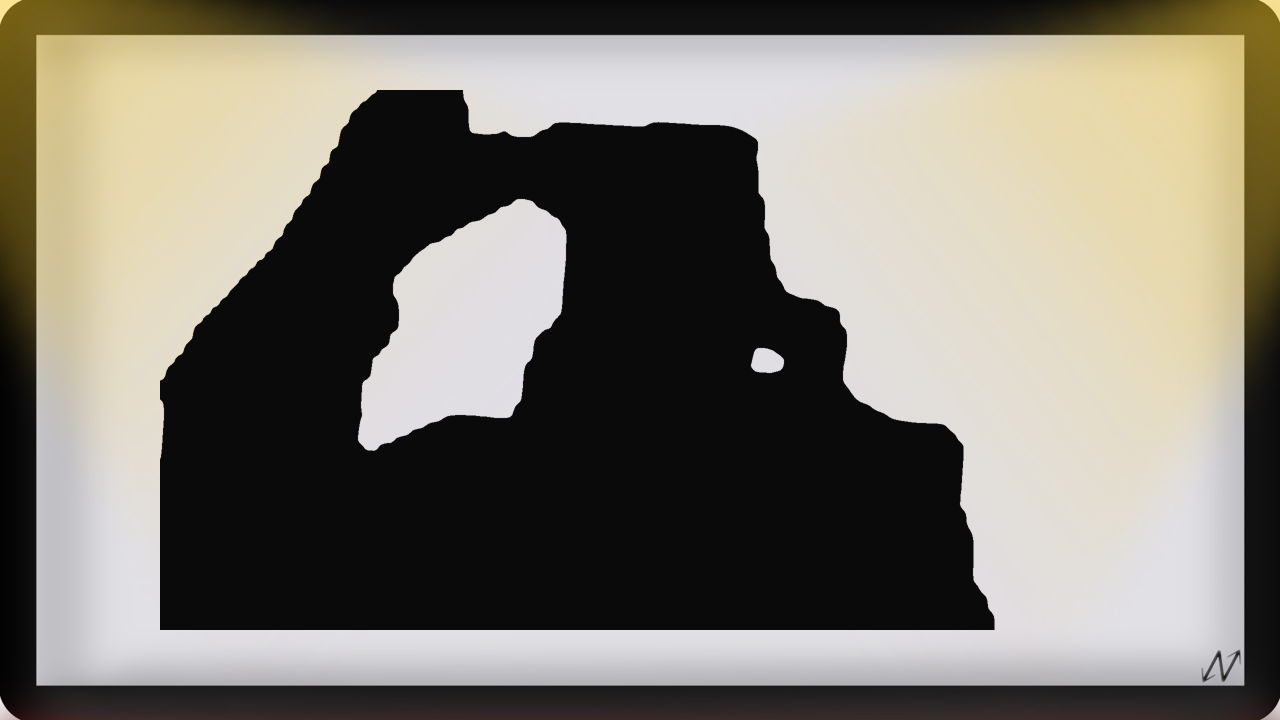
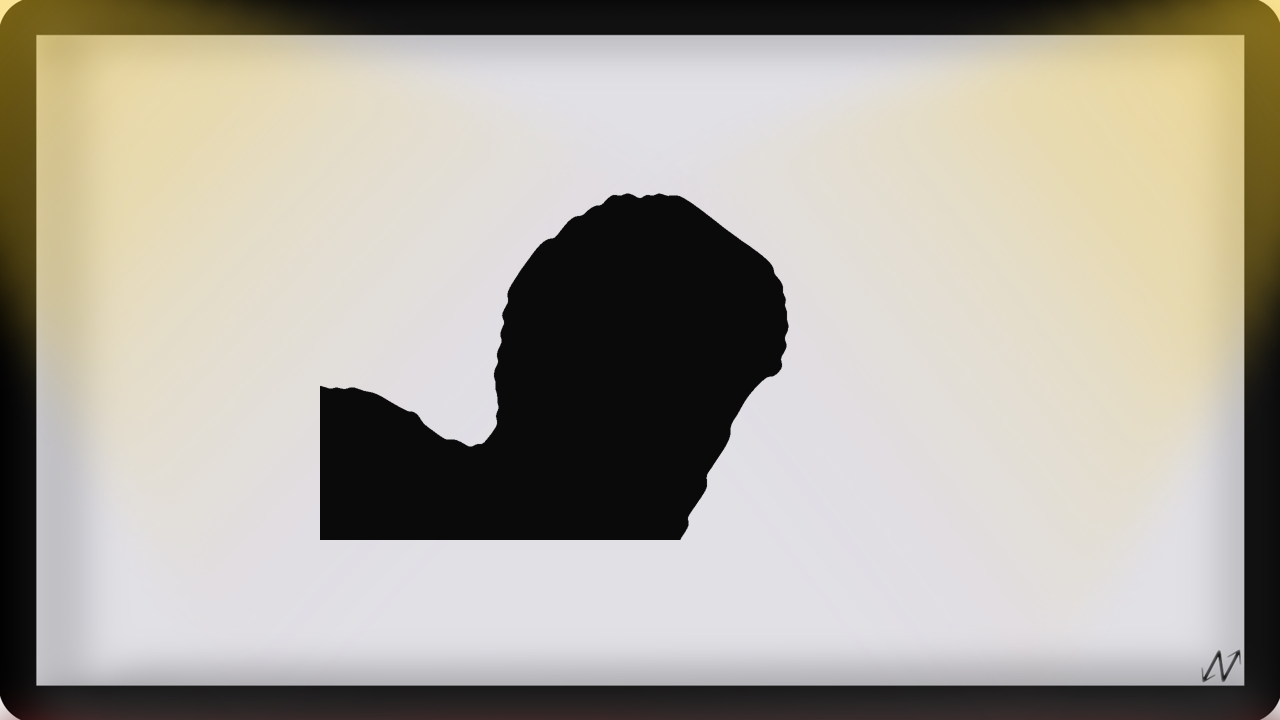
Commit codi funcionant abans del definitiu

Changed region(s): [[0.125, 0.1222, 0.7812, 0.8861]]

diff --git a/main.py b/main.py
@@ -1,85 +1,136 @@
+import signal
 import socket
 import mediapipe as mp
 import numpy as np
 import cv2
+import os
+
+from numpy import size
+
+from Photo import Photo
 from PIL import Image
+import random
 from bbddFirebase import upload_img
 
 server = socket.socket(socket.AF_INET, socket.SOCK_STREAM)
-server.bind(("192.168.1.46", 4444))
+server.bind(("192.168.199.32", 4444))
 server.listen()
 print("Servidor creat.")
 
 
-# Function thats edits the image, making it to only show the silhouette of the subject
-def edit_image(img):
-    # mediapipe body segmentation:
+def mp_segmentation(photo):
+    # For static img:
     mp_pose = mp.solutions.pose
-    bg_colour = (255, 255, 255)  # white
-    mask_colour = (10, 10, 10)  # dark grey
+    mp_drawing = mp.solutions.drawing_utils
+    mp_drawing_styles = mp.solutions.drawing_styles
+
+    BG_COLOR = (255, 255, 255)  # white
+    array_color = [(0, 135, 255), (25, 203, 250), (179, 122, 55), (10, 10, 10), (200, 200, 200)]
     with mp_pose.Pose(
             static_image_mode=True,
             model_complexity=2,
             enable_segmentation=True,
             min_detection_confidence=0.6) as body_seg:
         try:
-            mask_condition = np.stack((body_seg.process(img).segmentation_mask,) * 3, axis=-1) > 0.1
-            fg_image = np.zeros(img.shape, dtype=np.uint8)
-            fg_image[:] = mask_colour
-            bg_image = np.zeros(img.shape, dtype=np.uint8)
-            bg_image[:] = bg_colour
-            masked_image = np.where(mask_condition, fg_image, bg_image)
-            blurred_mask = cv2.medianBlur(masked_image, 11)
-            img_png = cv2.cvtColor(blurred_mask, cv2.COLOR_BGR2BGRA)
-            img_png[np.all(img_png == [255, 255, 255, 255], axis=2)] = [0, 0, 0, 0]
-            path_edit = "pepe.png"
-            cv2.imwrite("edit/" + path_edit, img_png)
-            return path_edit
-        # If no person has been detected, we control the exception thrown out.
+            image = cv2.imread(photo.get_original_path())
+            # results = body_seg.process(cv2.cvtColor(image, cv2.COLOR_BGR2RGB))  # change bgr to rgb
+
+            # To improve segmentation around boundaries, consider applying a joint
+            # bilateral filter to "results.segmentation_mask" with "image".
+            condition = np.stack((body_seg.process(image).segmentation_mask,) * 3, axis=-1) > 0.1
+            # Generate solid color img for showing the output  segmentation mask.
+            fg_image = np.zeros(image.shape, dtype=np.uint8)
+            fg_image[:] = array_color[random.randint(0, 4)]
+            bg_image = np.zeros(image.shape, dtype=np.uint8)
+            bg_image[:] = BG_COLOR
+            output_image = np.where(condition, fg_image, bg_image)
         except TypeError:
-            print("No s'ha detectat cap persona. ")
+            print("No s'ha detectat cap persona.")
             return "no"
 
+        return output_image
 
-# Function that shows the edited image while blending it with the background
-def show_edited_img(png_path, bg_path):
-    img = Image.open("edit/" + png_path)
-    img_w, img_h = img.size
-    img = img.resize((int(img_w / 2), int(img_h / 2)))
-    background = Image.open(bg_path)
+
+def load_images_from_folder(folder):
+    images = []
+    for filename in os.listdir(folder):
+        img = cv2.imread(os.path.join(folder, filename))
+
+        if img is not None:
+            images.append(Photo(filename, os.path.join(folder, filename)))
+
+    return images
+
+
+def put_together(photos):
+    positionsx = [-50, 800, 400, 600, 600]
+    positionsy = [50, 0, 100, 0, 500]
+    background = Image.open("background/background.jpg")
     background = background.resize((int(1920 / 1.5), int(1080 / 1.5)))
-    img_w, img_h = img.size
+
     bg_w, bg_h = background.size
-    offset = ((bg_w - img_w) // 2, (bg_h - img_h) // 2)  # background image center
-    background.paste(img, offset, img)  # pastes the png image on the background center
-    background.save("final/" + png_path)
-    upload_img("final/" + png_path)
-    bkg = cv2.imread("final/" + png_path)
-    cv2.imshow('Output', bkg)
-    cv2.waitKey(2000)
-    cv2.destroyAllWindows()
+    i = 0
+    for photo in photos:
+        img = Image.open('shadows/' + photo.get_name() + '.png')
+        img_w, img_h = img.size
+        img = img.resize((int(img_w / 3), int(img_h / 3)))
+        img_w, img_h = img.size
+        offset = positionsx[i], positionsy[i]
+        i += 1
+        background.paste(img, offset, img)
+
+    background.save('out.png')
+    immm = cv2.imread('out.png', 1)
+    cv2.imshow('Script 3', immm)
+    cv2.waitKey(0)
+
+
+def Signal_Handler(signal, frame):
+    print("Tancant servidor.")
+    server.close()
 
 
 if __name__ == '__main__':
-    try:
-        while True:
-            # Socket connection that recieves the image from the raspberry pi 4
-            print("Esperant connexions...")
-            client_socket, client_address = server.accept()
+    signal.signal(signal.SIGINT, Signal_Handler)
+    img_count = 0
+    os.system("rmdir /s /q img ")
+    os.system("mkdir img")
+    os.system("cd shadows && del /s /q *")
+    while True:
+        # Socket connection that recieves the image from the raspberry pi 4
+        print("Esperant connexions...")
+        client_socket, client_address = server.accept()
+        if img_count > 4:
+            os.system("cd img && del imatge" + str(img_count - 5) + ".jpg")
+            os.system("cd shadows && del imatge" + str(img_count - 5) + ".png")
+        file = open('img/imatge' + str(img_count) + '.jpg', "wb+")
+        img_count += 1
+        image_chunk = client_socket.recv(2048)
 
-            file = open('img/imatge.jpg', "wb+")
+        while image_chunk:
+            file.write(image_chunk)
             image_chunk = client_socket.recv(2048)
+        file.close()
 
-            while image_chunk:
-                file.write(image_chunk)
-                image_chunk = client_socket.recv(2048)
 
-            file.close()
-            image = cv2.imread("img/imatge.jpg")
-            path = edit_image(image)
-            if path != "no":
-                show_edited_img(path, "background/background.jpg")
 
-    except KeyboardInterrupt:
-        print("Tancant servidor.")
-        server.close()
+        photos = load_images_from_folder("img")
+        for e in photos:
+            print("Foto: " + e.get_name())
+        for photo in photos:
+            img = mp_segmentation(photo)
+            if img == "no":
+                print("Borrant imatge...")
+                img_count -= 1
+                print("Borrant " + str(img_count))
+                os.system("cd img && del imatge" + str(img_count) + ".jpg")
+                os.system("cd shadows && del imatge" + str(img_count) + ".png")
+                # photos.pop(img_count - 1)
+                break
+            else:
+                blurred_mask = cv2.medianBlur(img, 11)
+                frame = cv2.cvtColor(blurred_mask, cv2.COLOR_BGR2BGRA)
+                frame[np.all(frame == [255, 255, 255, 255], axis=2)] = [0, 0, 0, 0]
+                print(photo.get_name())
+                cv2.imwrite('shadows/imatge' + str(img_count - 1) + '.png', frame)
+        put_together(photos)

diff --git a/borrador.py b/borrador.py
@@ -1,0 +1,53 @@
+# Function thats edits the image, making it to only show the silhouette of the subject
+"""
+def edit_image(img):
+    # mediapipe body segmentation:
+    mp_pose = mp.solutions.pose
+    bg_colour = (255, 255, 255)  # white
+    mask_colour = (10, 10, 10)  # dark grey
+    with mp_pose.Pose(
+            static_image_mode=True,
+            model_complexity=2,
+            enable_segmentation=True,
+            min_detection_confidence=0.6) as body_seg:
+        try:
+            mask_condition = np.stack((body_seg.process(img).segmentation_mask,) * 3, axis=-1) > 0.1
+            fg_image = np.zeros(img.shape, dtype=np.uint8)
+            fg_image[:] = mask_colour
+            bg_image = np.zeros(img.shape, dtype=np.uint8)
+            bg_image[:] = bg_colour
+            masked_image = np.where(mask_condition, fg_image, bg_image)
+            blurred_mask = cv2.medianBlur(masked_image, 11)
+            img_png = cv2.cvtColor(blurred_mask, cv2.COLOR_BGR2BGRA)
+            img_png[np.all(img_png == [255, 255, 255, 255], axis=2)] = [0, 0, 0, 0]
+            path_edit = "pepe.png"
+            cv2.imwrite("edit/" + path_edit, img_png)
+            return path_edit
+        # If no person has been detected, we control the exception thrown out.
+        except TypeError:
+            print("No s'ha detectat cap persona. ")
+            return "no"
+
+
+# Function that shows the edited image while blending it with the background
+def show_edited_img(png_path, bg_path):
+    img = Image.open("edit/" + png_path)
+    img_w, img_h = img.size
+    img = img.resize((int(img_w / 2), int(img_h / 2)))
+    background = Image.open(bg_path)
+    background = background.resize((int(1920 / 1.5), int(1080 / 1.5)))
+    img_w, img_h = img.size
+    bg_w, bg_h = background.size
+    offset = ((bg_w - img_w) // 2, (bg_h - img_h) // 2)  # background image center
+    background.paste(img, offset, img)  # pastes the png image on the background center
+    background.save("final/" + png_path)
+    upload_img("final/" + png_path)
+    bkg = cv2.imread("final/" + png_path)
+    cv2.imshow('Output', bkg)
+    cv2.waitKey(2000)
+    cv2.destroyAllWindows()
+
+image = cv2.imread("img/imatge.jpg")
+            path = edit_image(image)
+            if path != "no":
+                show_edited_img(path, "background/background.jpg")"""

diff --git a/Photo.py b/Photo.py
@@ -1,0 +1,15 @@
+class Photo:
+    # constructor of Image
+    def __init__(self, name, original_path):
+        self.name = name.split(".")[0]
+        self.original_path = original_path
+        self.edited = False
+
+    def get_name(self):
+        return self.name
+
+    def get_original_path(self):
+        return self.original_path
+
+    def set_edited(self, edited):
+        self.edited = edited
